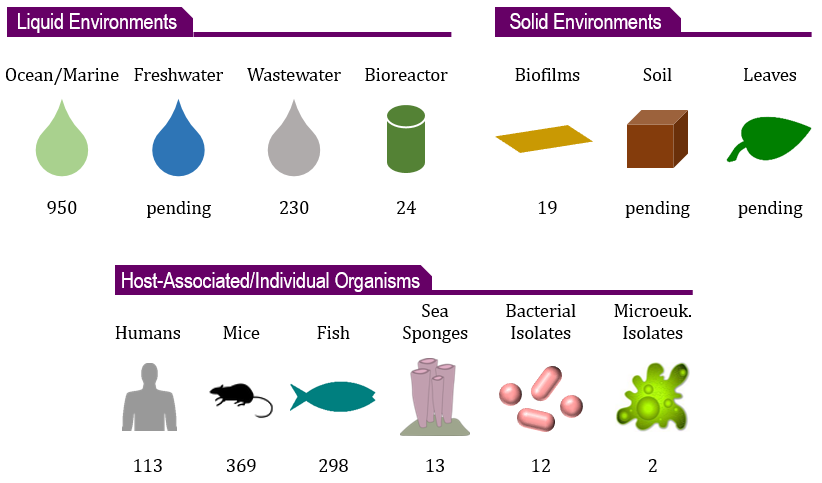
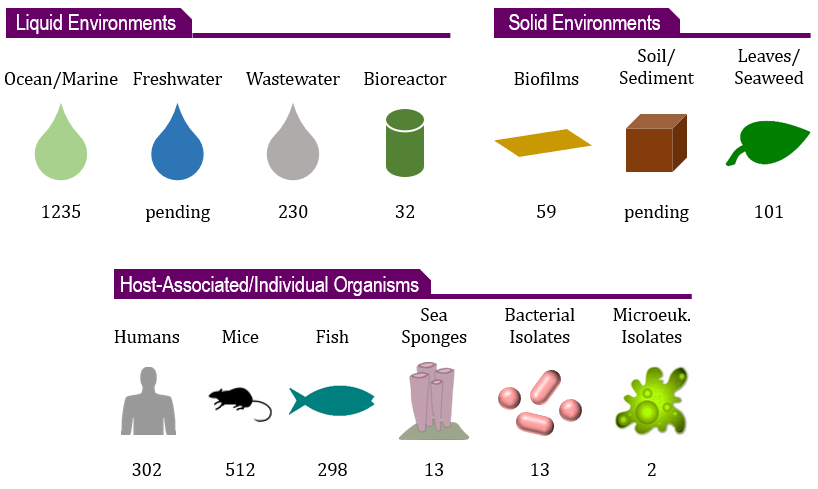
achievement update

diff --git a/achieve.html b/achieve.html
@@ -93,9 +93,9 @@
 								<h3>IMR Overall Progress</h3>
 							</header>
 							<p>
-								We have completed a dozen or so runs, containing over <b>2000 samples</b>, covering <b>23 different scientific projects</b> of IMR Members, other academics and 
-								commercial clients. We have sequenced over <b>260 million reads</b> containing over <b>145 billion bases</b>...and these numbers are growing continuously...
-								<p><center><img src="images/IMR-ProgressAug2015.png" width="600"></center>
+								As of end October, we completed 14 productive runs, containing nearly <b>2800 samples</b>, covering <b>33 different scientific projects</b> of IMR Members, other academics and 
+								commercial clients. We have sequenced over <b>300 million reads</b> containing over <b>150 billion bases</b>...and these numbers are growing continuously...
+								<p><center><img src="images/IMR-ProgressOct2015.png" width="600"></center>
 							</p>
 						</section>
 						<section>
@@ -103,7 +103,7 @@
 								<h3>Summary of Sample Types/Origins</h3>
 							</header>
 							<p>
-								The 23 different projects so far undertaken at the IMR cover varying subjects, ranging from "pure" <b>environmental research of the oceans</b> to applied research in 
+								The 33 different projects so far undertaken at the IMR cover varying subjects, ranging from "pure" <b>environmental research of the oceans</b> to applied research in 
 								<b>wastewater treatment and bioreactors</b> to <b>mouse model studies and human clinical trials</b>. The range of sample types/origins so far examined are outlined in the 
 								below infographics:
 								<p><center><img src="images/Samples.png" height="400"></center>
